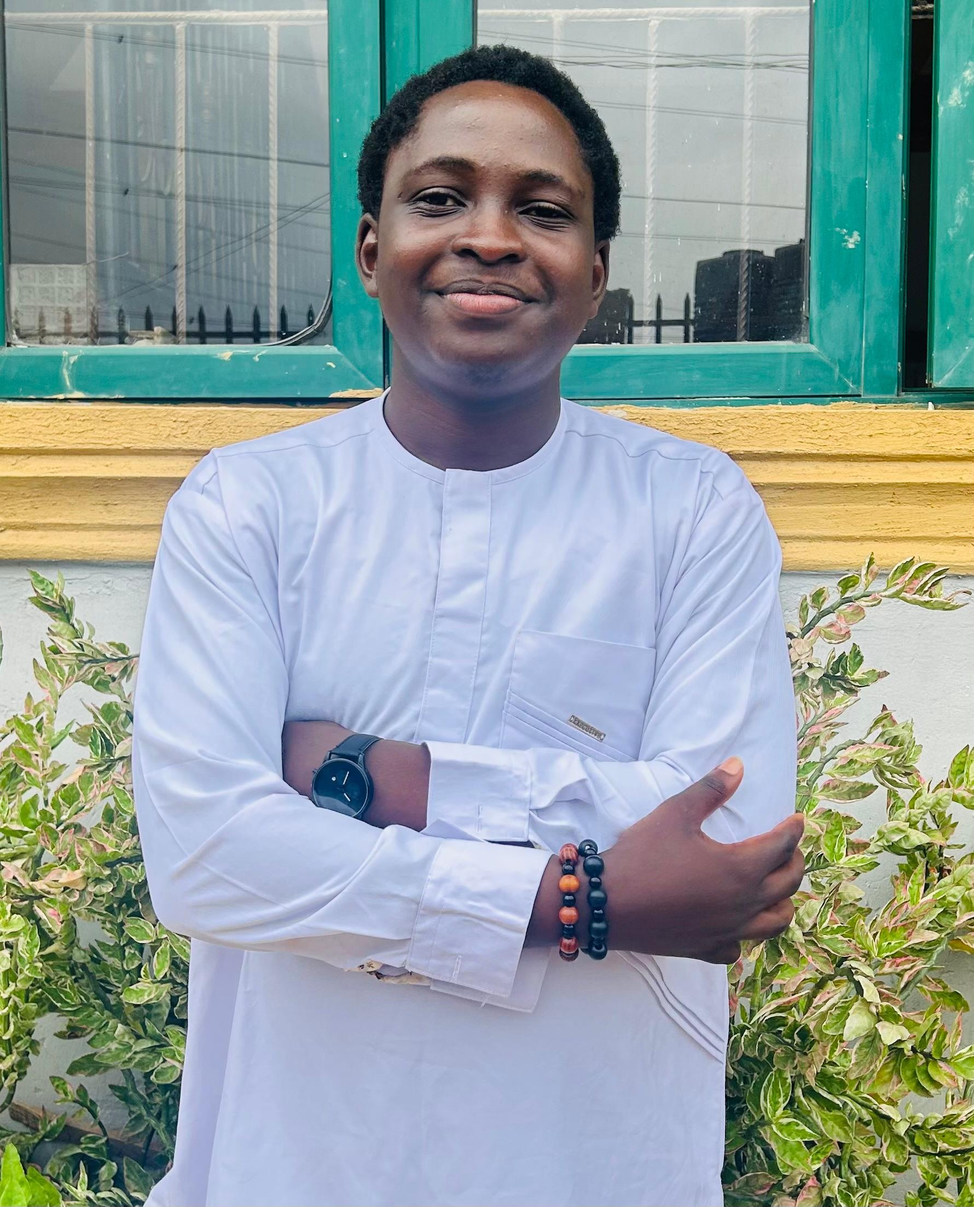
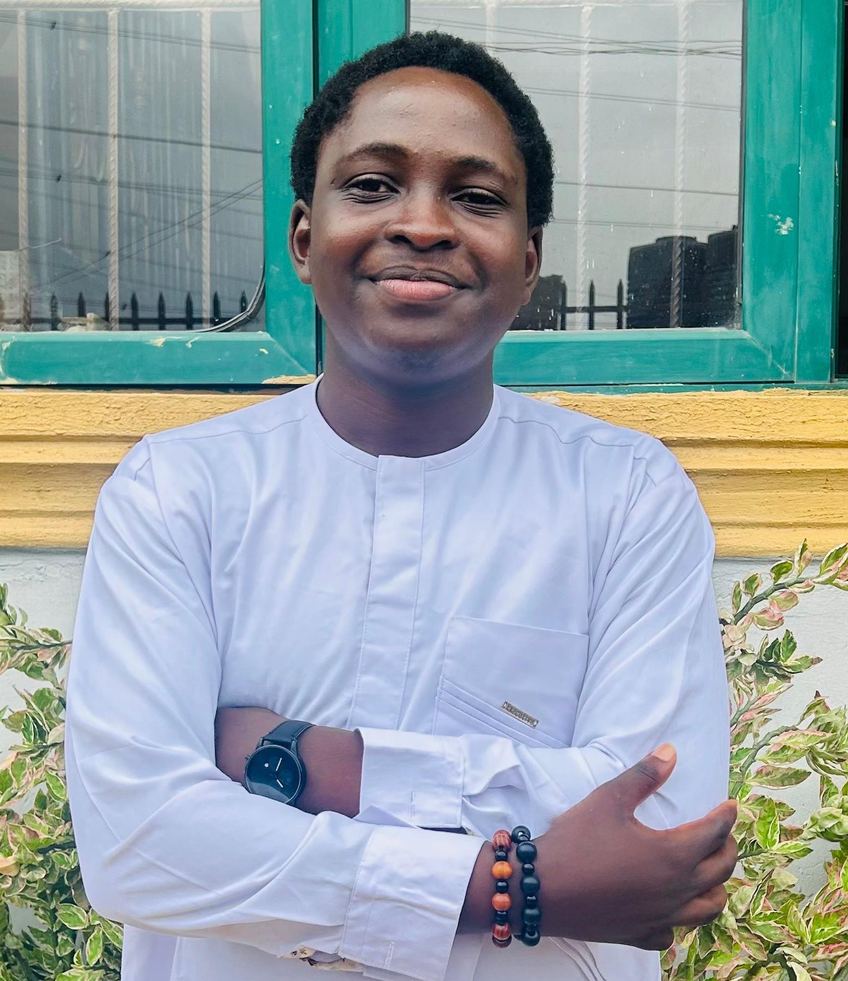
image clean

diff --git a/dist/index.html b/dist/index.html
@@ -8,13 +8,8 @@
     <link rel="preconnect" href="https://fonts.googleapis.com" />
     <link rel="preconnect" href="https://fonts.gstatic.com" crossorigin />
     <link href="https://fonts.googleapis.com/css2?family=Inter:wght@300;400;500;600&display=swap" rel="stylesheet" />
-<<<<<<< HEAD
-    <script type="module" crossorigin src="/assets/index-C9sdCUfQ.js"></script>
-    <link rel="stylesheet" crossorigin href="/assets/index-B7TyAy9D.css">
-=======
     <script type="module" crossorigin src="/assets/index-BqgSLERO.js"></script>
     <link rel="stylesheet" crossorigin href="/assets/index-8tVt2Y40.css">
->>>>>>> d2ffa896dc5b85a3779a77923d185e2206fb2cee
   </head>
   <body>
     <div id="root"></div>
